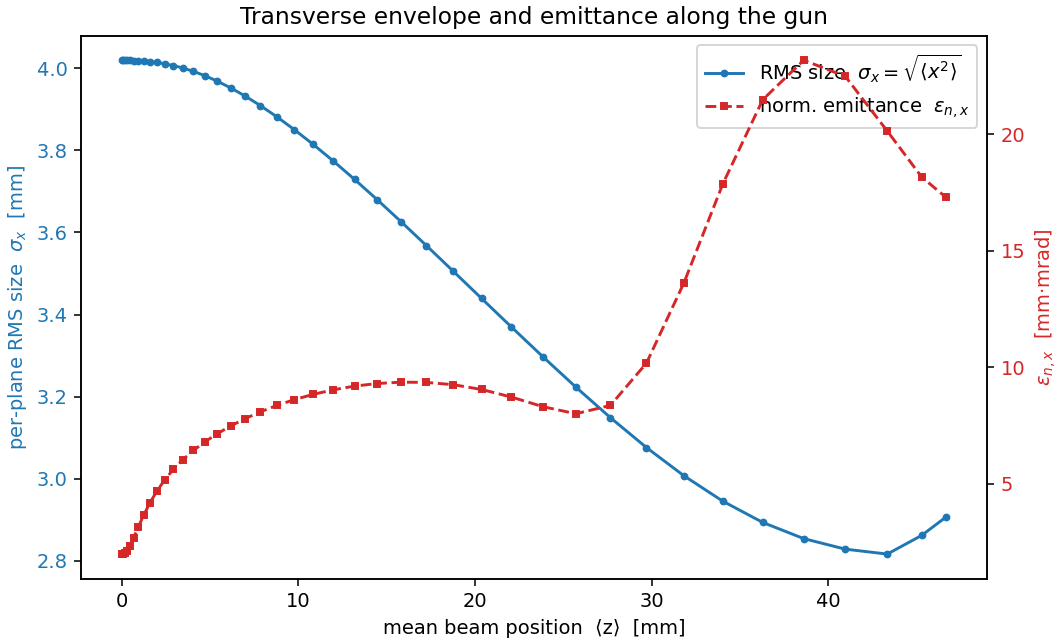
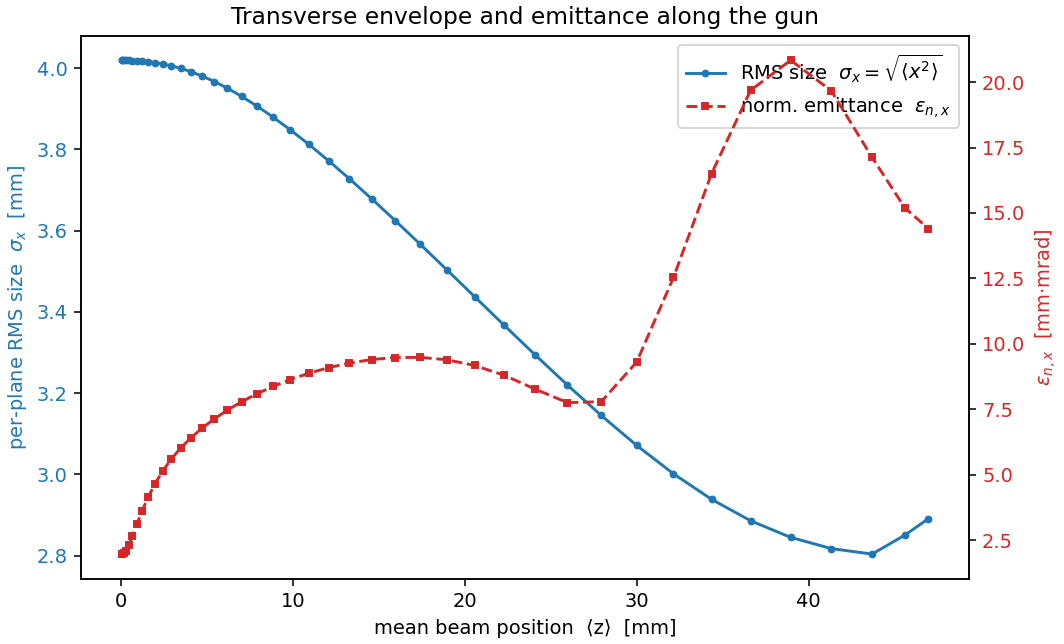
gun: switch self-field to electromagnetostatic solver
Enable warpx_magnetostatic=True on the ElectrostaticSolver so WarpX also
solves the Coulomb-gauge vector potential from the beam current (B = curl A)
alongside phi. This supplies the relativistic magnetic-pinch force qβ×B that
the pure-electrostatic solver omits, giving the correct net transverse
self-force qE_r/γ² instead of qE_r (≈γ²=1.66× over-repulsion at the 146 keV
exit). The magnetostatic MLMG solve reuses the REQUIRED_PRECISION / MAX_ITERS
knobs via explicit warpx_magnetostatic_required_precision / _max_iters.

The outer radial field BC is changed neumann -> dirichlet: the A_z component
(driven by the dominant beam current j_z) otherwise has an all-Neumann
singular operator and the MLMG bottom solve diverges (MLMG failed). Grounding
the pipe at r=15 mm, well outside the r<=8 mm beam, makes it well-posed.

Verified: exit <KE> = 146.1 keV (unchanged), transmission ~81%, runtime ~82 s
(≈2x the ES-only gun for the added 3-component vector solve). Figures
regenerated; README space-charge section and comments updated.

diff --git a/gun/gun_sim.py b/gun/gun_sim.py
@@ -7,7 +7,9 @@ This is the second stage of the Cornell Linac chain modelled in WarpX. Stage 1
 limit; here we take its emitted electrons and track them through the gun's
 electrostatic accelerating field — the `CESR_gun.gdf` map scaled to 150 kV by
 `build_gun_field.py` and applied as an external (electrode) field on the
-particles, while WarpX's electrostatic solver supplies the beam self-field.
+particles, while WarpX's electromagnetostatic solver supplies the beam self-field
+(electrostatic E plus the self magnetic B from the beam current, so the
+relativistic magnetic pinch is included).
 
 Geometry is RZ (cylindrical), matching the gun field map's native symmetry.
 
@@ -164,21 +166,38 @@ def main():
         lower_bound=[0.0, 0.0],
         upper_bound=[RMAX, ZMAX],
         # r=0 must be "none" (axis); the electrode field is applied externally, so
-        # the self-field Poisson solve just needs grounded z plates (dirichlet) with
-        # a zero-normal-field (neumann) outer radial wall.
+        # the self-field solve just needs grounded z plates (dirichlet). The outer
+        # radial wall is also dirichlet (grounded pipe at r=RMAX=15 mm, well outside
+        # the r≲8 mm beam): the electromagnetostatic solver also does a vector-Poisson
+        # solve for A, and the dominant A_z component (driven by the beam's j_z) would
+        # have an all-Neumann, singular operator — and the MLMG bottom solve diverges —
+        # if the outer wall were neumann; the dirichlet wall makes A_z well-posed.
         lower_boundary_conditions=["none", "dirichlet"],
-        upper_boundary_conditions=["neumann", "dirichlet"],
+        upper_boundary_conditions=["dirichlet", "dirichlet"],
         lower_boundary_conditions_particles=["none", "absorbing"],
         upper_boundary_conditions_particles=["absorbing", "absorbing"],
         warpx_blocking_factor=8,
     )
 
-    # Electrostatic solver for the beam self-field only.
+    # Electromagnetostatic solver for the beam self-field. In addition to the
+    # electrostatic Poisson solve (∇²φ = -ρ/ε₀, E = -∇φ), warpx_magnetostatic=True
+    # also solves the Coulomb-gauge vector potential from the beam current
+    # (∇²A = -μ₀ j, B = ∇×A), so the self magnetic field is included. This supplies
+    # the relativistic magnetic-pinch term qβ×B that partially cancels the radial
+    # space-charge repulsion — the net transverse self-force is qE_r/γ² rather than the
+    # pure-electrostatic qE_r (the ≈γ²=1.66× over-repulsion at the 146 keV exit the
+    # plain labframe solver incurs). The magnetostatic MLMG solve is given the same
+    # REQUIRED_PRECISION / MAX_ITERS knobs as the electrostatic solve via the explicit
+    # warpx_magnetostatic_required_precision / warpx_magnetostatic_max_iters params.
     solver_kw = dict(grid=grid, method="Multigrid",
                      required_precision=REQUIRED_PRECISION,
-                     warpx_self_fields_verbosity=0)   # silence MLMG per-iteration chatter
+                     warpx_magnetostatic=True,
+                     warpx_magnetostatic_required_precision=REQUIRED_PRECISION,
+                     warpx_self_fields_verbosity=0,           # silence ES MLMG per-iteration chatter
+                     warpx_magnetostatic_verbosity=0)         # and the magnetostatic solve
     if MAX_ITERS:                                     # omit when None → PICMI default
         solver_kw["maximum_iterations"] = MAX_ITERS
+        solver_kw["warpx_magnetostatic_max_iters"] = MAX_ITERS
     solver = picmi.ElectrostaticSolver(**solver_kw)
 
     # ── Applied gun field: the scaled CESR_gun.gdf map, read from file ────────

diff --git a/gun/README.md b/gun/README.md
@@ -7,8 +7,11 @@ accelerating structure modelled in Adam Bartnik's Linac GUI with the Poisson–S
 map `CESR_gun.gdf` (the "Chili Gun Mk II", ~150 kV).
 
 The gun field is applied as an external **electrode field** on the particles; WarpX's
-electrostatic solver supplies the self-consistent beam **space charge** on top. Geometry is
-**RZ (cylindrical)**, matching the field map's native symmetry.
+**electromagnetostatic** solver supplies the self-consistent beam **space charge** on top —
+both the electrostatic self-field (∇²φ = −ρ/ε₀) and, from the beam current, the self
+**magnetic** field (Coulomb-gauge ∇²A = −μ₀j, B = ∇×A), so the relativistic magnetic pinch is
+included (see *Space-charge model* below). Geometry is **RZ (cylindrical)**, matching the field
+map's native symmetry.
 
 ## Pipeline
 
@@ -126,20 +129,35 @@ beam is treated as a single injected bunch.
 |-----------|-------|
 | geometry | RZ, `n_azimuthal_modes = 1` |
 | grid | 96 (r) × 384 (z), r ∈ [0, 15 mm], z ∈ [0, 51.77 mm] |
-| solver | electrostatic, lab frame, Multigrid (self-field only) |
+| boundaries (fields) | axis at r=0; **dirichlet** (grounded) outer radial wall + both z plates |
+| solver | electromagnetostatic, lab frame, Multigrid (self E **and** B from beam current) |
 | applied field | scaled `CESR_gun.gdf`, −150 kV, read from file |
 | bunch | 1 nC, imported cathode phase space, ~133k macroparticles (optionally capped by `MAX_PART`, reweighted) |
 | time step | `dt = CFL·Δz/v_exit` (`CFL`=0.4; v_exit ≈ 0.63 c at 150 keV) |
 | duration | `TRANSIT_MARGIN`×gun-transit time (=1.15; bunch average speed ≈ `AVG_SPEED_FRAC`·v_exit, =0.6), or fixed via `MAX_STEPS`; stops as the beam reaches the exit — running longer empties the domain and aborts the Multigrid self-field solve |
 
-The lab-frame electrostatic solver is non-relativistic in its self-field treatment: it applies
-the rest-frame Coulomb field `qE_r` with no magnetic-pinch cancellation, whereas the true net
-transverse force is `qE_r/γ²`. At the gun exit (146 keV, γ ≈ 1.29) this **overestimates the
-transverse space-charge force by ≈ γ² = 1.66×, i.e. ~66 %** — ramping from a few % near the
-cathode (10 keV) to ~66 % at exit. (The genuine fix is WarpX's relativistic ES mode, out of
-scope for this single-pass demo; the same caveat applies, but shrinks, in the more relativistic
-injector/linac stages — see those READMEs.) Acceptable for the demo, but note it if pushing
-to higher voltage or interpreting the absolute σ_x / emittance.
+### Space-charge model — electromagnetostatic self-field
+
+The self-field uses WarpX's **lab-frame electromagnetostatic** solver (`warpx_magnetostatic=True`
+on the PICMI `ElectrostaticSolver`): on top of the electrostatic Poisson solve (∇²φ = −ρ/ε₀,
+**E** = −∇φ) it also solves the Coulomb-gauge vector potential from the beam current
+(∇²**A** = −μ₀**j**, **B** = ∇×**A**), so the beam's **self magnetic field** is included. The
+resulting magnetic-pinch force `qβ×B` partially cancels the radial electric repulsion, giving the
+correct relativistic net transverse self-force `qE_r/γ²` rather than the pure-electrostatic `qE_r`.
+At the gun exit (146 keV, γ ≈ 1.29) the plain labframe-electrostatic solver would **overestimate
+the transverse space-charge force by ≈ γ² = 1.66×, i.e. ~66 %** (ramping from a few % near the
+cathode at 10 keV to ~66 % at exit); the electromagnetostatic solver removes that error
+self-consistently. (WarpX's per-species *relativistic* ES mode is an alternative for a single
+drifting species; the electromagnetostatic mode generalizes to multi-velocity beams.)
+
+The magnetostatic vector-Poisson solve reuses the `REQUIRED_PRECISION` / `MAX_ITERS` knobs (passed
+explicitly as `warpx_magnetostatic_required_precision` / `warpx_magnetostatic_max_iters`). It adds
+a 3-component MLMG solve per step, so the run is **≈2× slower** than the electrostatic-only gun
+(~80 s vs ~40 s at the default grid). **Boundary requirement:** the outer radial wall is
+`dirichlet` (not `neumann`) — the `A_z` component (driven by the dominant beam current `j_z`)
+would otherwise have an all-Neumann singular operator and the MLMG bottom solve **diverges**
+(`MLMG failed`). Grounding the pipe at r = 15 mm — well outside the r ≲ 8 mm beam — makes it
+well-posed; the headline exit energy is unchanged (146 keV) and transmission is ~81 %.
 
 ## Figures (`results/`)
 
